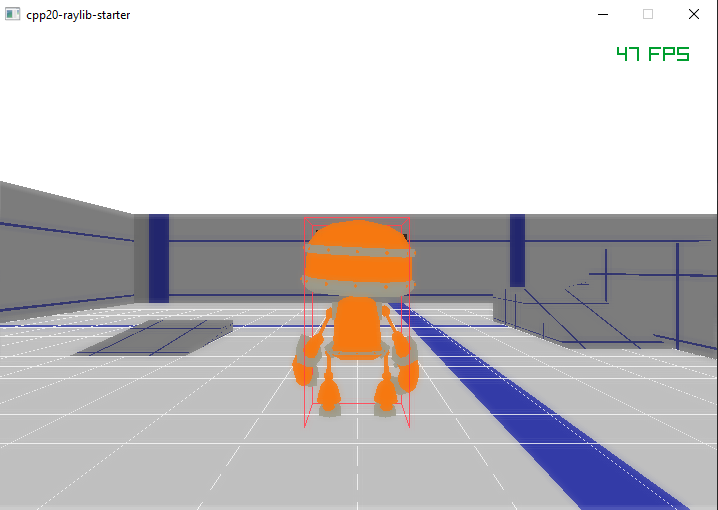
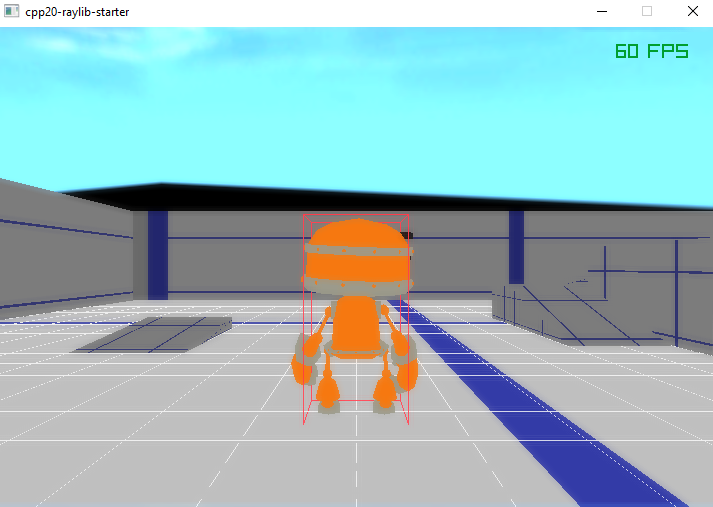
feat: 🎸 skybox 1/2
BREAKING CHANGE: 🧨 resources path

diff --git a/platform/mygame/src/mygame.c b/platform/mygame/src/mygame.c
@@ -8,6 +8,12 @@
 #include "level_unrealthirdperson.h"
 #include "camera.h"
 
+#include "rlgl.h"
+#include "raymath.h" // Required for: MatrixPerspective(), MatrixLookAt()
+
+// Generate cubemap (6 faces) from equirectangular (panorama) texture
+static TextureCubemap GenTextureCubemap(Shader shader, Texture2D panorama, int size, int format);
+
 const char consoleOut[999];
 
 //------------------------------------------------------------------------------------------
@@ -39,6 +45,39 @@ int main(AppConfiguration appConfig)
 	int currentScreen = LAUNCHER;
 	Launcher_State launcherState = InitLauncher(appConfig);
 	UnrealThirdPerson_State unrealThirdPerson_State = Init_UnrealThirdPerson(appConfig, &target, consoleOut);
+
+	// Skybox
+	int GLSL_VERSION = appConfig.glsl_version;
+	bool useHDR = false;
+	Mesh cube = GenMeshCube(500.0f, 500.0f, 500.0f);
+	Model skybox = LoadModelFromMesh(cube);
+	// Load skybox shader and set required locations
+	// NOTE: Some locations are automatically set at shader loading
+	skybox.materials[0].shader = LoadShader(TextFormat("resources\\shaders\\glsl%i\\skybox.vs", GLSL_VERSION),
+											TextFormat("resources\\shaders\\glsl%i\\skybox.fs", GLSL_VERSION));
+	SetShaderValue(skybox.materials[0].shader, GetShaderLocation(skybox.materials[0].shader, "environmentMap"), (int[1]){MATERIAL_MAP_CUBEMAP}, SHADER_UNIFORM_INT);
+	SetShaderValue(skybox.materials[0].shader, GetShaderLocation(skybox.materials[0].shader, "doGamma"), (int[1]){useHDR ? 1 : 0}, SHADER_UNIFORM_INT);
+	SetShaderValue(skybox.materials[0].shader, GetShaderLocation(skybox.materials[0].shader, "vflipped"), (int[1]){useHDR ? 1 : 0}, SHADER_UNIFORM_INT);
+	// Load cubemap shader and setup required shader locations
+	Shader shdrCubemap = LoadShader(TextFormat("resources\\shaders\\glsl%i\\cubemap.vs", GLSL_VERSION),
+									TextFormat("resources\\shaders\\glsl%i\\cubemap.fs", GLSL_VERSION));
+	SetShaderValue(shdrCubemap, GetShaderLocation(shdrCubemap, "equirectangularMap"), (int[1]){0}, SHADER_UNIFORM_INT);
+
+	if (useHDR)
+	{
+		// Load HDR panorama (sphere) texture
+		Texture2D panorama = LoadTexture("resources\\skybox.png");
+		skybox.materials[0].maps[MATERIAL_MAP_CUBEMAP].texture = GenTextureCubemap(shdrCubemap, panorama, 1024, PIXELFORMAT_UNCOMPRESSED_R8G8B8A8);
+		UnloadTexture(panorama); // Texture not required anymore, cubemap already generated
+	}
+	else
+	{
+		// Load img texture
+		Image img = LoadImage("resources\\skybox.png");
+		skybox.materials[0].maps[MATERIAL_MAP_CUBEMAP].texture = LoadTextureCubemap(img, CUBEMAP_LAYOUT_AUTO_DETECT); // CUBEMAP_LAYOUT_PANORAMA
+		UnloadImage(img);
+	}
+	Camera camera = InitCamera();
 
 	//--------------------------------------------------------------------------------------
 
@@ -75,6 +114,17 @@ int main(AppConfiguration appConfig)
 			case UNREAL_THIRDPERSON:
 			{
 				Texture_UnrealThirdPerson(&unrealThirdPerson_State);
+
+								// Skybox
+				BeginMode3D(camera);
+				{
+					rlDisableBackfaceCulling();
+					rlDisableDepthMask();
+					DrawModel(skybox, (Vector3){0, 0, 0}, 1.0f, SKYBLUE);
+					rlEnableBackfaceCulling();
+					rlEnableDepthMask();
+				}
+				EndMode3D();
 			}
 			default:
 				break;
@@ -95,7 +145,10 @@ int main(AppConfiguration appConfig)
 			break;
 			case UNREAL_THIRDPERSON:
 			{
+
 				Draw_UnrealThirdPerson(&unrealThirdPerson_State, target);
+
+
 			}
 			default:
 				break;
@@ -110,6 +163,9 @@ int main(AppConfiguration appConfig)
 	// Levels
 	Unload_UnrealThirdPerson(&unrealThirdPerson_State);
 	UnloadLauncher(&launcherState);
+
+	UnloadModel(skybox); // Unload skybox model
+
 	// target
 	UnloadRenderTexture(target);
 
@@ -117,4 +173,93 @@ int main(AppConfiguration appConfig)
 	//--------------------------------------------------------------------------------------
 
 	return 0;
+}
+
+// Generate cubemap texture from HDR texture
+static TextureCubemap GenTextureCubemap(Shader shader, Texture2D panorama, int size, int format)
+{
+	TextureCubemap cubemap = {0};
+
+	rlDisableBackfaceCulling(); // Disable backface culling to render inside the cube
+
+	// STEP 1: Setup framebuffer
+	//------------------------------------------------------------------------------------------
+	unsigned int rbo = rlLoadTextureDepth(size, size, true);
+	cubemap.id = rlLoadTextureCubemap(0, size, format);
+
+	unsigned int fbo = rlLoadFramebuffer(512, 512);
+	rlFramebufferAttach(fbo, rbo, RL_ATTACHMENT_DEPTH, RL_ATTACHMENT_RENDERBUFFER, 0);
+	rlFramebufferAttach(fbo, cubemap.id, RL_ATTACHMENT_COLOR_CHANNEL0, RL_ATTACHMENT_CUBEMAP_POSITIVE_X, 0);
+
+	// Check if framebuffer is complete with attachments (valid)
+	if (rlFramebufferComplete(fbo))
+		TraceLog(LOG_INFO, "FBO: [ID %i] Framebuffer object created successfully", fbo);
+	//------------------------------------------------------------------------------------------
+
+	// STEP 2: Draw to framebuffer
+	//------------------------------------------------------------------------------------------
+	// NOTE: Shader is used to convert HDR equirectangular environment map to cubemap equivalent (6 faces)
+	rlEnableShader(shader.id);
+
+	// Define projection matrix and send it to shader
+	Matrix matFboProjection = MatrixPerspective(90.0 * DEG2RAD, 1.0, RL_CULL_DISTANCE_NEAR, RL_CULL_DISTANCE_FAR);
+	rlSetUniformMatrix(shader.locs[SHADER_LOC_MATRIX_PROJECTION], matFboProjection);
+
+	// Define view matrix for every side of the cubemap
+	Matrix fboViews[6] = {
+		MatrixLookAt((Vector3){0.0f, 0.0f, 0.0f}, (Vector3){1.0f, 0.0f, 0.0f}, (Vector3){0.0f, -1.0f, 0.0f}),
+		MatrixLookAt((Vector3){0.0f, 0.0f, 0.0f}, (Vector3){-1.0f, 0.0f, 0.0f}, (Vector3){0.0f, -1.0f, 0.0f}),
+		MatrixLookAt((Vector3){0.0f, 0.0f, 0.0f}, (Vector3){0.0f, 1.0f, 0.0f}, (Vector3){0.0f, 0.0f, 1.0f}),
+		MatrixLookAt((Vector3){0.0f, 0.0f, 0.0f}, (Vector3){0.0f, -1.0f, 0.0f}, (Vector3){0.0f, 0.0f, -1.0f}),
+		MatrixLookAt((Vector3){0.0f, 0.0f, 0.0f}, (Vector3){0.0f, 0.0f, 1.0f}, (Vector3){0.0f, -1.0f, 0.0f}),
+		MatrixLookAt((Vector3){0.0f, 0.0f, 0.0f}, (Vector3){0.0f, 0.0f, -1.0f}, (Vector3){0.0f, -1.0f, 0.0f})};
+
+	rlViewport(0, 0, size, size); // Set viewport to current fbo dimensions
+
+	// Activate and enable texture for drawing to cubemap faces
+	rlActiveTextureSlot(0);
+	rlEnableTexture(panorama.id);
+
+	for (int i = 0; i < 6; i++)
+	{
+		// Set the view matrix for the current cube face
+		rlSetUniformMatrix(shader.locs[SHADER_LOC_MATRIX_VIEW], fboViews[i]);
+
+		// Select the current cubemap face attachment for the fbo
+		// WARNING: This function by default enables->attach->disables fbo!!!
+		rlFramebufferAttach(fbo, cubemap.id, RL_ATTACHMENT_COLOR_CHANNEL0, RL_ATTACHMENT_CUBEMAP_POSITIVE_X + i, 0);
+		rlEnableFramebuffer(fbo);
+
+		// Load and draw a cube, it uses the current enabled texture
+		rlClearScreenBuffers();
+		rlLoadDrawCube();
+
+		// ALTERNATIVE: Try to use internal batch system to draw the cube instead of rlLoadDrawCube
+		// for some reason this method does not work, maybe due to cube triangles definition? normals pointing out?
+		// TODO: Investigate this issue...
+		// rlSetTexture(panorama.id); // WARNING: It must be called after enabling current framebuffer if using internal batch system!
+		// rlClearScreenBuffers();
+		// DrawCubeV(Vector3Zero(), Vector3One(), WHITE);
+		// rlDrawRenderBatchActive();
+	}
+	//------------------------------------------------------------------------------------------
+
+	// STEP 3: Unload framebuffer and reset state
+	//------------------------------------------------------------------------------------------
+	rlDisableShader();		  // Unbind shader
+	rlDisableTexture();		  // Unbind texture
+	rlDisableFramebuffer();	  // Unbind framebuffer
+	rlUnloadFramebuffer(fbo); // Unload framebuffer (and automatically attached depth texture/renderbuffer)
+
+	// Reset viewport dimensions to default
+	rlViewport(0, 0, rlGetFramebufferWidth(), rlGetFramebufferHeight());
+	rlEnableBackfaceCulling();
+	//------------------------------------------------------------------------------------------
+
+	cubemap.width = size;
+	cubemap.height = size;
+	cubemap.mipmaps = 1;
+	cubemap.format = format;
+
+	return cubemap;
 }

diff --git a/platform/mygame/src/level_unrealthirdperson.c b/platform/mygame/src/level_unrealthirdperson.c
@@ -78,25 +78,26 @@ ModelAnimation *LoadAnimations2(AppConfiguration appConfig)
     ModelAnimation *modelAnimations = LoadModelAnimations(mod_str, &animsCount);
     return modelAnimations;
 }
-Shader LoadShaderBloom(AppConfiguration appProps)
+
+Shader LoadShaderBloom(AppConfiguration appConfig)
 {
     // 	shaders[FX_BLOOM] = LoadShader(0, pathJoin(appProps.res_path, TextFormat("resources\\shaders\\glsl%i\\bloom.fs", appProps.glsl_version)));
     // resolve paths
-    char *sha_path = TextFormat("resources\\shaders\\glsl%i\\bloom.fs", appProps.glsl_version);
+    char *sha_path = TextFormat("resources\\shaders\\glsl%i\\bloom.fs", appConfig.glsl_version);
     const char sha_str[999];
-    snprintf(sha_str, sizeof(sha_str), "%s\\%s", appProps.res_path, sha_path);
+    snprintf(sha_str, sizeof(sha_str), "%s\\%s", appConfig.res_path, sha_path);
     // load
     Shader shader = LoadShader(0, sha_str);
     return shader;
 }
 
-Shader LoadShaderDefault(AppConfiguration appProps)
+Shader LoadShaderDefault(AppConfiguration appConfig)
 {
     // 	shaders[FX_DEFAULT] = LoadShader(0, pathJoin(appProps.res_path, TextFormat("resources\\shaders\\glsl%i\\default.fs", appProps.glsl_version)));
     // resolve paths
-    char *shadef_path = TextFormat("resources\\shaders\\glsl%i\\default.fs", appProps.glsl_version);
+    char *shadef_path = TextFormat("resources\\shaders\\glsl%i\\default.fs", appConfig.glsl_version);
     const char shadef_str[999];
-    snprintf(shadef_str, sizeof(shadef_str), "%s\\%s", appProps.res_path, shadef_path);
+    snprintf(shadef_str, sizeof(shadef_str), "%s\\%s", appConfig.res_path, shadef_path);
     // load
     Shader shader = LoadShader(0, shadef_str);
     return shader;
